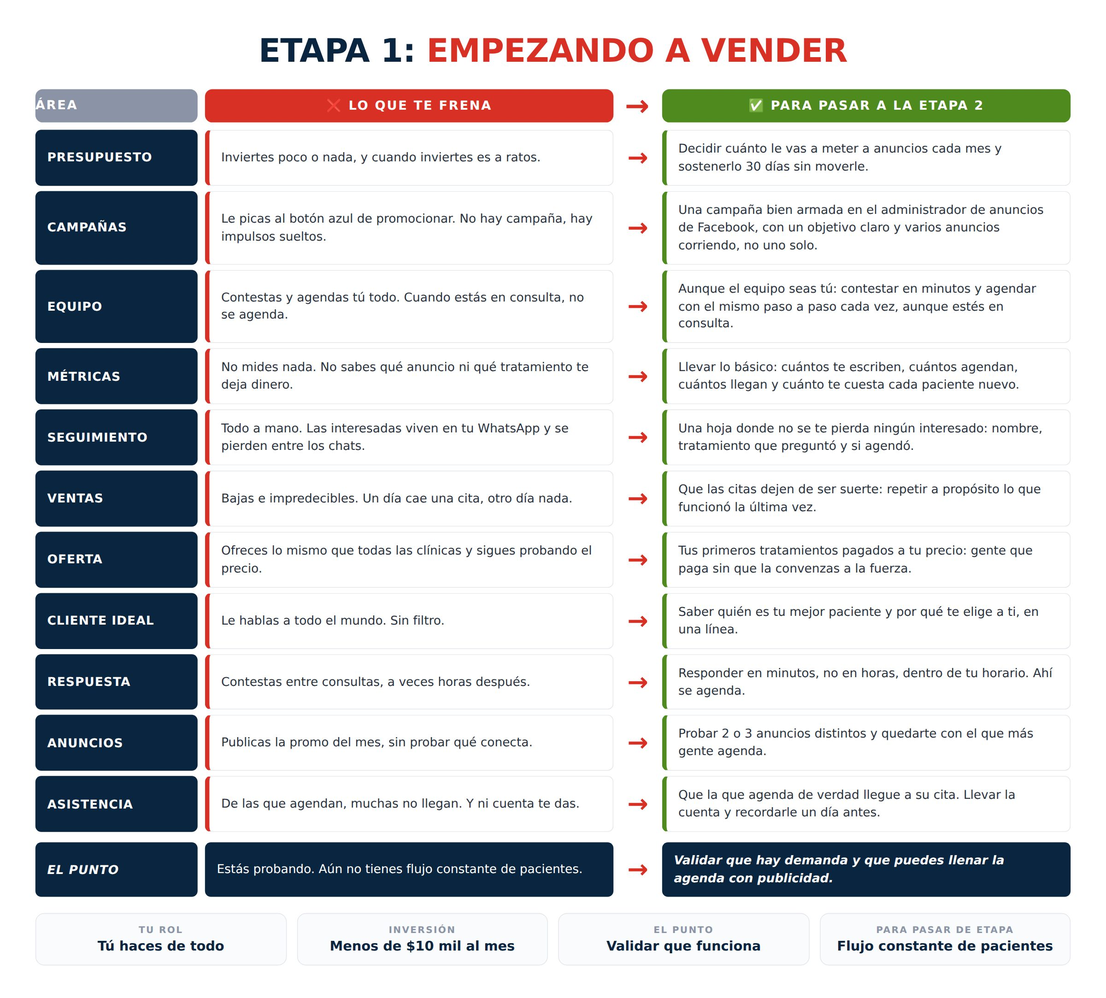
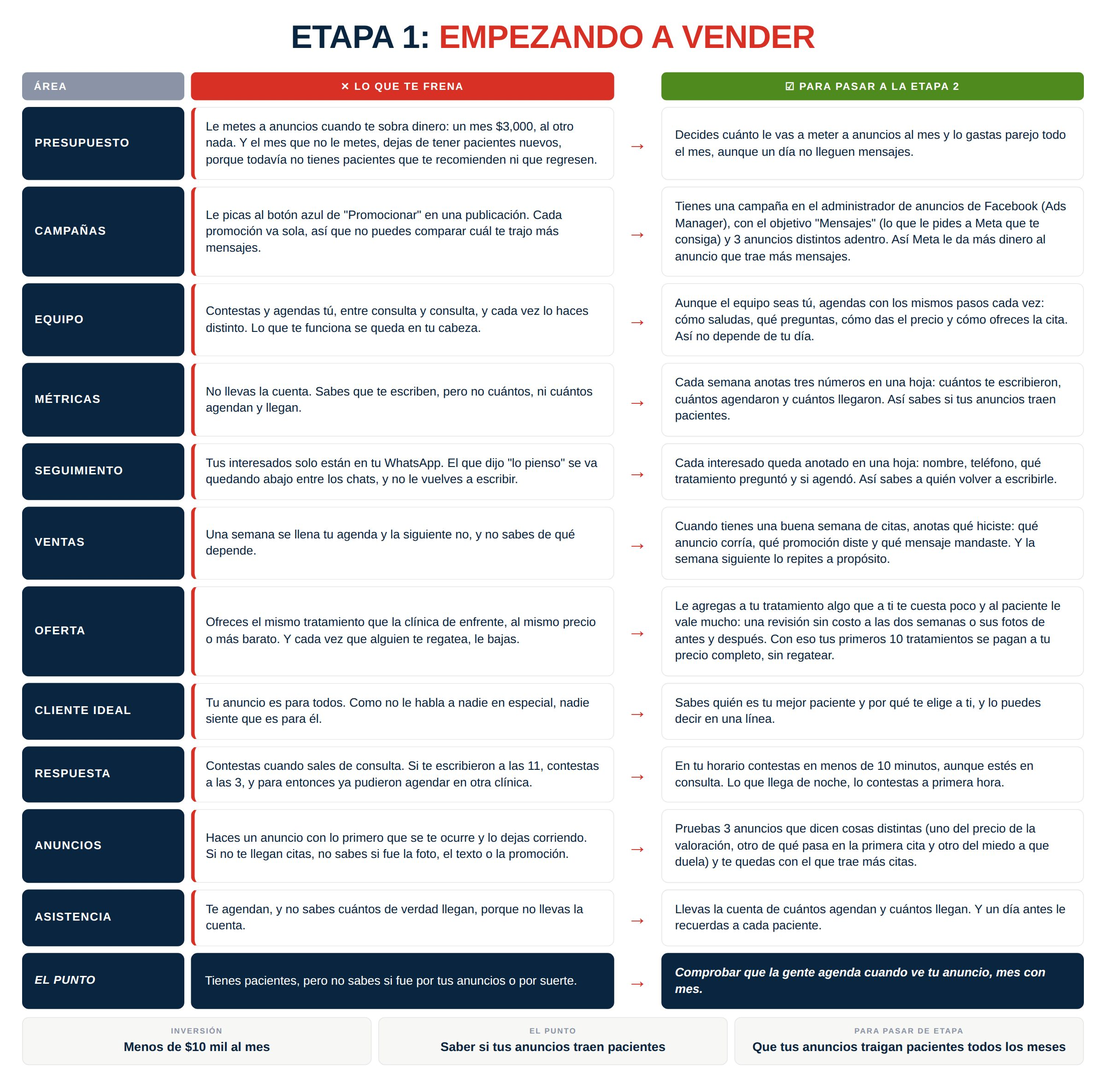
Build 8.0: E1 y E2 reescritas + clinica + E3 Equipo + mockup

Changed region(s): [[0.0, 0.0, 1.0, 0.9903]]

diff --git a/index.html b/index.html
@@ -2104,30 +2104,30 @@ function laLectura(real,tg,tr){
 }
 /* ---- Checklist Etapa 1 (mapa en lista) ---- */
 const CHK1=[
- {area:'Presupuesto',text:'Decidir cuánto le vas a meter a anuncios cada mes y sostenerlo 30 días sin moverle.',ej:'Decides $3 mil al mes ($100 al día) y no le subes ni le bajas en 30 días, aunque un día no lleguen mensajes. Así sabes si funciona o no.',cl:{ej:'Decides $3 mil al mes ($100 al día) y no le subes ni le bajas en 30 días, aunque un día no lleguen mensajes. Así sabes si funciona o no.'}},
- {area:'Campañas',text:'Una campaña bien armada en el administrador de anuncios de Facebook, con un objetivo claro y varios anuncios corriendo, no uno solo.',ej:'En vez de "Promocionar publicación" con un solo anuncio: una campaña con objetivo "Mensajes", 3 anuncios distintos adentro y un presupuesto diario fijo.',cl:{ej:'En vez de "Promocionar publicación" con un solo anuncio: una campaña con objetivo "Mensajes", 3 anuncios distintos adentro (uno por tratamiento) y un presupuesto diario fijo.'}},
- {area:'Equipo',text:'Aunque el equipo seas tú: contestar en minutos y vender con el mismo paso a paso cada vez, para que no dependa de tu día.',ej:'Cada vez que alguien escribe: contestas antes de 10 minutos, saludo, una pregunta para saber qué necesita, precio, y ofrecer cerrar. Siempre igual, aunque estés cansado.',cl:{text:'Aunque el equipo seas tú: contestar en minutos y agendar con el mismo paso a paso cada vez, aunque estés en consulta.',ej:'Cada vez que alguien escribe: contestas antes de 10 minutos, saludo, una pregunta para saber qué le interesa, precio de la valoración o del tratamiento, y ofrecer día y hora. Siempre igual, aunque estés con un paciente.'}},
- {area:'Métricas',text:'Llevar lo básico: cuántos te escriben, cuántos compran y cuánto te cuesta cada venta.',ej:'Una hoja con tres columnas: cuántos te escribieron esta semana, cuántos compraron y cuánto gastaste en anuncios. Divides y ya sabes lo que te cuesta cada venta.',cl:{text:'Llevar lo básico: cuántos te escriben, cuántos agendan, cuántos llegan y cuánto te cuesta cada paciente nuevo.',ej:'Una hoja con cuatro columnas: cuántos te escribieron esta semana, cuántos agendaron, cuántos llegaron y cuánto gastaste en anuncios. Divides y ya sabes lo que te cuesta cada paciente nuevo.'}},
- {area:'Seguimiento',text:'Un lugar simple donde no se te pierda ningún interesado, aunque sea una hoja.',ej:'Una hoja de Excel con nombre, teléfono, qué preguntó y si compró. Se llena cada noche en 5 minutos.',cl:{text:'Una hoja donde no se te pierda ningún interesado: nombre, tratamiento que preguntó y si agendó.',ej:'Una hoja de Google con nombre, teléfono, qué tratamiento preguntó y si ya agendó. Se llena cada noche en 5 minutos.'}},
- {area:'Ventas',text:'Que la venta deje de ser suerte: repetir a propósito lo que funcionó la última vez.',ej:'La semana que más vendiste, ¿qué hiciste distinto? ¿Qué anuncio, qué precio, qué mensaje? Eso se repite a propósito la siguiente.',cl:{text:'Que las citas dejen de ser suerte: repetir a propósito lo que funcionó la última vez.',ej:'La semana que más agendaste, ¿qué hiciste distinto? ¿Qué anuncio, qué promoción, qué mensaje? Eso se repite a propósito la siguiente.'}},
- {area:'Oferta',text:'Tus primeras ventas reales: gente que paga tu precio sin que la convenzas a la fuerza.',ej:'Diez personas que pagaron tus $800 por el paquete sin pedir descuento. Si todas piden rebaja, la oferta todavía no está.',cl:{text:'Tus primeros tratamientos pagados a tu precio: gente que paga sin que la convenzas a la fuerza.',ej:'Diez pacientes que pagaron tu valoración o tu tratamiento de $1,500 sin pedir descuento. Si todas piden rebaja, la oferta todavía no está.'}},
- {area:'Cliente ideal',text:'Saber quién es tu mejor cliente y por qué te compra a ti, en una línea.',ej:'Mujer de 30 a 45, de tu zona, que ya probó otras cosas y no le funcionaron. Te compra porque le dices la verdad de qué sí sirve.',cl:{text:'Saber quién es tu mejor paciente y por qué te elige a ti, en una línea.',ej:'Mujer de 35 a 50, de tu zona, que ya gastó en cremas y en un tratamiento barato en otro lado y sigue igual. Te elige porque le dices cuántas sesiones necesita de verdad y cuánto le va a costar todo, sin sorpresas.'}},
- {area:'Respuesta',text:'Responder en minutos, no en horas, dentro de tu horario. Ahí se cierra.',ej:'Si escribe a las 11 de la mañana, le contestas antes de las 11:10. Si escribe a las 10 de la noche, le contestas a primera hora.',cl:{text:'Responder en minutos, no en horas, dentro de tu horario. Ahí se agenda.',ej:'Si escribe a las 11 de la mañana, le contestas antes de las 11:10, aunque estés en consulta (por eso el paso a paso lo puede seguir tu recepción). Si escribe a las 10 de la noche, a primera hora.'}},
- {area:'Anuncios',text:'Probar 2 o 3 anuncios distintos y quedarte con el que más gente responde.',ej:'Un anuncio hablando del precio, otro del resultado y otro del miedo de que salga mal. A la semana ves cuál trajo más mensajes.',cl:{text:'Probar 2 o 3 anuncios distintos y quedarte con el que más gente agenda.',ej:'Un anuncio hablando del precio de la valoración, otro de qué pasa en la primera cita y otro del miedo a que duela. A la semana ves cuál trajo más citas.'}},
- {area:'Asistencia',text:'Que el que dice "sí" de verdad llegue: a la cita o a pagar el pedido. Llevar la cuenta y recordarle antes.',ej:'De 10 que dicen "sí, voy" o "sí, lo quiero", apuntas cuántos llegaron a la cita o a pagar. Y antes les escribes: "Te espero mañana a las 4, ¿confirmas?" o "Te aparto tu pedido hasta hoy a las 6, ¿lo cierro?"',na:true,cl:{text:'Que la que agenda de verdad llegue a su cita. Llevar la cuenta y recordarle un día antes.',ej:'De 10 que agendan, apuntas cuántas llegaron. Y un día antes les escribes: "Te espero mañana a las 4, ¿confirmas?"'}}
+ {"area": "Presupuesto", "text": "Decides cuánto le vas a meter a anuncios al mes y lo gastas parejo todo el mes, aunque un día no lleguen mensajes.", "ej": "Decides $3 mil al mes: $100 al día. Un martes no te llega ningún mensaje, y no le bajas. Al final del mes cuentas cuántos compraron.", "cl": {"ej": "Decides $3 mil al mes: $100 al día. Un martes no te llega ningún mensaje, y no le bajas. Al final del mes cuentas cuántos pacientes llegaron."}},
+ {"area": "Campañas", "text": "Tienes una campaña en el administrador de anuncios de Facebook (Ads Manager), con el objetivo \"Mensajes\" (lo que le pides a Meta que te consiga) y 3 anuncios distintos adentro. Así Meta le da más dinero al anuncio que trae más mensajes.", "ej": "En vez de \"Promocionar\" una publicación: una campaña con objetivo \"Mensajes\", 3 anuncios distintos adentro y un presupuesto diario fijo.", "cl": {"ej": "En vez de \"Promocionar\" una publicación: una campaña con objetivo \"Mensajes\", 3 anuncios distintos adentro y un presupuesto diario fijo."}},
+ {"area": "Equipo", "text": "Aunque el equipo seas tú, vendes con los mismos pasos cada vez: cómo saludas, qué preguntas, cómo das el precio y cómo cierras. Así no depende de tu día.", "ej": "Cada vez que alguien te escribe, sigues los mismos pasos:\n1. Saludas\n2. Le preguntas qué necesita\n3. Le das el precio\n4. Le ofreces apartar\nSiempre igual, aunque estés cansado.", "cl": {"text": "Aunque el equipo seas tú, agendas con los mismos pasos cada vez: cómo saludas, qué preguntas, cómo das el precio y cómo ofreces la cita. Así no depende de tu día.", "ej": "Cada vez que alguien te escribe, sigues los mismos pasos:\n1. Saludas\n2. Le preguntas qué tratamiento le interesa\n3. Le das el precio de la valoración o del tratamiento\n4. Le ofreces día y hora\nSiempre igual, aunque estés con un paciente."}},
+ {"area": "Métricas", "text": "Cada semana anotas dos números en una hoja: cuántos te escribieron y cuántos compraron. Así sabes si tus anuncios traen gente que compra.", "ej": "Una hoja con dos columnas. Esta semana: 30 te escribieron y 3 compraron.", "cl": {"text": "Cada semana anotas tres números en una hoja: cuántos te escribieron, cuántos agendaron y cuántos llegaron. Así sabes si tus anuncios traen pacientes.", "ej": "Una hoja con tres columnas. Esta semana: 30 te escribieron, 8 agendaron y 5 llegaron."}},
+ {"area": "Seguimiento", "text": "Cada interesado queda anotado en una hoja: nombre, teléfono, qué preguntó y si compró. Así sabes a quién volver a escribirle.", "ej": "La hoja la llenas cada noche en 5 minutos. Al día siguiente le escribes al que dijo \"lo pienso\".", "cl": {"text": "Cada interesado queda anotado en una hoja: nombre, teléfono, qué tratamiento preguntó y si agendó. Así sabes a quién volver a escribirle.", "ej": "La hoja la llenas cada noche en 5 minutos. Al día siguiente le escribes al que dijo \"lo pienso\"."}},
+ {"area": "Ventas", "text": "Cuando tienes una buena semana, anotas qué hiciste: qué anuncio corría, qué precio diste y qué mensaje mandaste. Y la semana siguiente lo repites a propósito.", "ej": "La semana que más vendiste corría el anuncio del precio, diste el paquete de $800 y contestabas con el mismo mensaje de bienvenida. La semana siguiente repites esas tres cosas.", "cl": {"text": "Cuando tienes una buena semana de citas, anotas qué hiciste: qué anuncio corría, qué promoción diste y qué mensaje mandaste. Y la semana siguiente lo repites a propósito.", "ej": "La semana que más agendaste corría el anuncio del miedo a que duela, ofreciste la valoración a $300 y contestabas con el mismo mensaje de bienvenida. La semana siguiente repites esas tres cosas."}},
+ {"area": "Oferta", "text": "Le agregas a tu servicio algo que a ti te cuesta poco y al cliente le vale mucho: una garantía, una entrega más rápida o un seguimiento. Con eso tus primeras 10 ventas pagan tu precio completo, sin regatear.", "ej": "Tu paquete cuesta $800. Le agregas una garantía: si no queda como lo pidió, se lo rehaces sin costo. Las siguientes 10 personas pagan los $800 sin pedir descuento.", "cl": {"text": "Le agregas a tu tratamiento algo que a ti te cuesta poco y al paciente le vale mucho: una revisión sin costo a las dos semanas o sus fotos de antes y después. Con eso tus primeros 10 tratamientos se pagan a tu precio completo, sin regatear.", "ej": "Tu tratamiento cuesta $1,500. Le agregas una revisión sin costo a las dos semanas. Los siguientes 10 pacientes pagan los $1,500 sin pedir descuento."}},
+ {"area": "Cliente ideal", "text": "Sabes quién es tu mejor cliente y por qué te compra a ti, y lo puedes decir en una línea.", "ej": "Mujer de 30 a 45, de tu zona, que ya probó otras marcas y no le funcionaron. Te compra porque le dices la verdad de qué sí sirve.", "cl": {"text": "Sabes quién es tu mejor paciente y por qué te elige a ti, y lo puedes decir en una línea.", "ej": "Mujer de 35 a 50, de tu zona, que ya gastó en cremas y en un tratamiento barato en otro lado y sigue igual. Te elige porque le dices cuántas sesiones necesita de verdad y cuánto le va a costar todo, sin sorpresas."}},
+ {"area": "Respuesta", "text": "En tu horario contestas en menos de 10 minutos. Lo que llega de noche, lo contestas a primera hora.", "ej": "Si te escriben a las 11 de la mañana, contestas antes de las 11:10. Si te escriben a las 10 de la noche, contestas a primera hora.", "cl": {"text": "En tu horario contestas en menos de 10 minutos, aunque estés en consulta. Lo que llega de noche, lo contestas a primera hora.", "ej": "Si te escriben a las 11 de la mañana, contestas antes de las 11:10, aunque estés en consulta (por eso tus pasos los puede seguir tu recepción). Si te escriben a las 10 de la noche, a primera hora."}},
+ {"area": "Anuncios", "text": "Pruebas 3 anuncios que dicen cosas distintas (uno del precio, otro del resultado y otro del miedo a que salga mal) y te quedas con el que trae más mensajes.", "ej": "Los 3 anuncios gastan lo mismo. El del precio trae 12 mensajes, el del resultado 25 y el del miedo 8. Te quedas con el del resultado.", "cl": {"text": "Pruebas 3 anuncios que dicen cosas distintas (uno del precio de la valoración, otro de qué pasa en la primera cita y otro del miedo a que duela) y te quedas con el que trae más citas.", "ej": "Los 3 anuncios gastan lo mismo. El del precio trae 4 citas, el de la primera cita 9 y el del miedo 3. Te quedas con el de la primera cita."}},
+ {"area": "Asistencia", "text": "Llevas la cuenta de cuántos te dicen \"sí\" y cuántos llegan o pagan. Y un día antes le recuerdas a cada uno.", "ej": "De 10 que te dicen \"sí\", apuntas cuántos llegaron a la cita o pagaron. Y un día antes les escribes: \"Te espero mañana a las 4, ¿confirmas?\" o \"Te aparto tu pedido hasta mañana a las 6, ¿lo cierro?\"", "na": true, "cl": {"text": "Llevas la cuenta de cuántos agendan y cuántos llegan. Y un día antes le recuerdas a cada paciente.", "ej": "De 10 que agendan, apuntas cuántos llegaron. Y un día antes les escribes: \"Te espero mañana a las 4, ¿confirmas?\""}},
 ];
 const CHK2=[
- {area:'Presupuesto',text:'Fijar cuánto vas a gastar en el mes, sacado de cuánto quieres vender y de lo que te cuesta cada venta. No moverle a mitad de mes: le cambias al cierre, con tus números en la mano.',ej:'Quieres 30 ventas y cada venta te cuesta $500 en anuncios: tu presupuesto es $15 mil. Aunque la segunda semana salga floja, no le bajas. El 30 revisas cuántas ventas trajo y decides octubre.',cl:{text:'Fijar cuánto vas a gastar en el mes, sacado de cuántas citas quieres y de lo que te cuesta cada paciente nuevo. No moverle a mitad de mes: le cambias al cierre, con tus números en la mano.',ej:'Quieres 30 pacientes nuevos y cada uno te cuesta $500 en anuncios: tu presupuesto es $15 mil. Aunque la segunda semana salga floja, no le bajas. El 30 revisas cuántos llegaron y decides octubre.'}},
- {area:'Campañas',text:'Traer pocos anuncios prendidos, para que a cada uno le toque dinero suficiente. Si repartes tu presupuesto entre muchos, a ninguno le alcanza para saber si sirve. Apagas uno cuando ya gastó el doble de lo que te cuesta una venta y no trajo ninguna.',ej:'Gastas $500 al día y traes 10 anuncios: a cada uno le tocan $50. Con eso no vas a saber cuál sirve. Déjalos en 3 y a cada uno le tocan $166 al día. En dos semanas ya sabes cuál se queda.',cl:{text:'Traer pocos anuncios prendidos, para que a cada uno le toque dinero suficiente. Si repartes tu presupuesto entre muchos, a ninguno le alcanza para saber si sirve. Apagas uno cuando ya gastó el doble de lo que te cuesta un paciente nuevo y no trajo ninguno.',ej:'Gastas $500 al día y traes 10 anuncios: a cada uno le tocan $50. Con eso no vas a saber cuál sirve. Déjalos en 3 y a cada uno le tocan $166 al día. En dos semanas ya sabes cuál se queda.'}},
- {area:'Equipo',text:'Tener por escrito cómo se contesta y cómo se vende, para que quien te ayude lo siga desde su primer día.',ej:'Una hoja con 5 pasos: saludo, una pregunta para saber qué necesita, precio, ofrecer apartar y qué decir si contesta "lo pienso". Quien entre a contestar la lee y la sigue.',cl:{text:'Tener por escrito cómo se contesta y cómo se agenda, para que tu recepción lo siga desde su primer día.',ej:'Una hoja con 5 pasos: saludo, una pregunta para saber qué le interesa, precio de la valoración o del tratamiento, ofrecer día y hora, y qué decir si contesta "lo pienso". Quien conteste la lee y la sigue.'}},
- {area:'Métricas',text:'Contar cada semana tres cosas: mensajes, citas o pedidos apartados, y cuántos pagaron.',ej:'Cada viernes anotas: 40 mensajes, 12 apartaron, 7 pagaron. Con eso ves en qué paso se te van.',cl:{text:'Contar cada semana tres cosas: mensajes, citas agendadas y cuántas llegaron y pagaron.',ej:'Cada viernes anotas: 40 mensajes, 12 agendaron, 7 llegaron y pagaron. Con eso ves en qué paso se te van.'}},
- {area:'Seguimiento',text:'Una hoja de Google (Google Sheets) donde veas cuántos están cotizados, cuántos por decidir, cuántos apartaron y cuántos pagaron. Así sabes a quién darle seguimiento hoy.',ej:'Una fila por persona: nombre, qué preguntó y su estatus. Hoy: 9 cotizados, 5 por decidir, 3 apartados, 2 pagados. A los 5 por decidir les escribes hoy.',cl:{text:'Una hoja de Google (Google Sheets) donde veas cuántas están cotizadas, cuántas por decidir, cuántas agendadas y cuántas ya pagaron. Así sabes a quién darle seguimiento hoy.',ej:'Una fila por persona: nombre, tratamiento que preguntó y su estatus. Hoy: 9 cotizadas, 5 por decidir, 3 agendadas, 2 pagadas. A las 5 por decidir les escribes hoy.'}},
- {area:'Ventas',text:'Un objetivo de venta al mes en tres números: el mínimo, el ideal y el espectacular. Lograr 3 meses seguidos arriba del mínimo.',ej:'Mínimo $30 mil, ideal $45 mil, espectacular $60 mil. Si tres meses seguidos pasas de $30 mil, ya no es suerte: es un negocio que se sostiene.',cl:{text:'Un objetivo de venta al mes en tres números: el mínimo, el ideal y el espectacular. Lograr 3 meses seguidos arriba del mínimo.',ej:'Mínimo $30 mil, ideal $45 mil, espectacular $60 mil. Si tres meses seguidos pasas de $30 mil, ya no es suerte: es una clínica que se sostiene.'}},
- {area:'Oferta',text:'Saber cuál de tus productos o servicios cierra mejor y empujar ese, no todos al mismo tiempo.',ej:'Vendes tres paquetes. Cuentas cuál cierra más seguido sin regateo y ese es el que va en tus anuncios este mes.',cl:{text:'Saber cuál de tus tratamientos cierra mejor y empujar ese, no todos al mismo tiempo.',ej:'Ofreces tres tratamientos. Cuentas cuál agenda más seguido sin regateo y ese es el que va en tus anuncios este mes.'}},
- {area:'Cliente ideal',text:'Que tus anuncios le hablen a tu cliente ideal, con sus palabras.',ej:'Ya sabes que te compra la mujer de 30 a 45 que ya probó otras cosas. Tu anuncio dice eso, no "para todos".',cl:{text:'Que tus anuncios le hablen a tu paciente ideal, con sus palabras.',ej:'Ya sabes que te elige la mujer de 35 a 50 que ya gastó en cremas y sigue igual. Tu anuncio le habla a ella, no "a todas".'}},
- {area:'Respuesta',text:'Contestar en menos de 10 minutos en tu horario, y medirlo cada semana.',ej:'Cada semana revisas 10 chats: a qué hora llegaron y a qué hora contestaste. Si más de 2 pasaron de 10 minutos, se arregla esa semana.',cl:{ej:'Cada semana revisas 10 chats: a qué hora llegaron y a qué hora contestaste. Si más de 2 pasaron de 10 minutos, aunque estuvieras en consulta, se arregla esa semana.'}},
- {area:'Anuncios',text:'Un anuncio nuevo cada semana. Apagas el peor y anotas cuál ganó: el que trajo más apartados o pagos, no el de mensajes más baratos.',ej:'Lunes subes un anuncio nuevo. Viernes ves cuál trajo más apartados: ese ganó, aunque sus mensajes hayan salido más caros. El peor se apaga.',cl:{text:'Un anuncio nuevo cada semana. Apagas el peor y anotas cuál ganó: el que trajo más citas, no el de mensajes más baratos.',ej:'Lunes subes un anuncio nuevo. Viernes ves cuál trajo más citas: ese ganó, aunque sus mensajes hayan salido más caros. El peor se apaga.'}},
- {area:'Asistencia',text:'Recordatorio un día antes y confirmación el mismo día, a todos los que apartan.',ej:'Ayer: "Te espero mañana a las 4, ¿confirmas?". Hoy en la mañana: "Nos vemos hoy a las 4". A todos, no solo a los que te acuerdas.',na:true,cl:{text:'Recordatorio un día antes y confirmación el mismo día, a todas las que agendan.',ej:'Ayer: "Te espero mañana a las 4, ¿confirmas?". Hoy en la mañana: "Nos vemos hoy a las 4". A todas, no solo a las que te acuerdas.'}}
+ {"area": "Presupuesto", "text": "Al cierre de cada mes decides el presupuesto del siguiente con tu costo por venta (ver Métricas): si se mantuvo igual o bajó, le subes; si subió, lo dejas igual. A mitad de mes no le mueves.", "ej": "En septiembre gastaste $15 mil y cada venta te costó $500, igual que en agosto. Para octubre le subes a $18 mil. Aunque la segunda semana de octubre salga floja, no le bajas.", "cl": {"text": "Al cierre de cada mes decides el presupuesto del siguiente con tu costo por paciente nuevo (ver Métricas): si se mantuvo igual o bajó, le subes; si subió, lo dejas igual. A mitad de mes no le mueves.", "ej": "En septiembre gastaste $15 mil y cada paciente nuevo te costó $500, igual que en agosto. Para octubre le subes a $18 mil. Aunque la segunda semana de octubre salga floja, no le bajas."}},
+ {"area": "Campañas", "text": "Tienes 3 anuncios prendidos, no 10, para que a cada uno le toque dinero suficiente para saber si trae ventas.", "ej": "Gastas $500 al día en 10 anuncios: a cada uno le tocan $50. Si los dejas en 3, a cada uno le tocan $166 al día. Así sabes antes cuál trae ventas.", "cl": {"text": "Tienes 3 anuncios prendidos, no 10, para que a cada uno le toque dinero suficiente para saber si trae pacientes.", "ej": "Gastas $500 al día en 10 anuncios: a cada uno le tocan $50. Si los dejas en 3, a cada uno le tocan $166 al día. Así sabes antes cuál trae pacientes."}},
+ {"area": "Equipo", "text": "Tienes por escrito los pasos para contestar y vender, y quien te ayuda los sigue desde su primer día.", "ej": "Una hoja con 5 pasos: saludo, una pregunta para saber qué necesita, precio, ofrecer apartar y qué decir si contesta \"lo pienso\". Quien entre a contestar la lee y la sigue.", "cl": {"text": "Tienes por escrito los pasos para contestar y agendar, y tu recepción los sigue desde su primer día.", "ej": "Una hoja con 5 pasos: saludo, una pregunta para saber qué tratamiento le interesa, precio de la valoración o del tratamiento, ofrecer día y hora, y qué decir si contesta \"lo pienso\". Quien conteste la lee y la sigue."}},
+ {"area": "Métricas", "text": "Cada semana sacas dos costos: cuánto te cuesta un mensaje (lo que gastaste entre los mensajes) y cuánto te cuesta una venta (lo que gastaste entre las ventas).", "ej": "Esta semana gastaste $3,000, te llegaron 60 mensajes y vendiste 6.\nCada mensaje te costó $50.\nCada venta te costó $500.", "cl": {"text": "Cada semana sacas dos costos: cuánto te cuesta un mensaje (lo que gastaste entre los mensajes) y cuánto te cuesta un paciente nuevo (lo que gastaste entre los pacientes que llegaron y pagaron).", "ej": "Esta semana gastaste $3,000, te llegaron 60 mensajes y llegaron 6 pacientes nuevos.\nCada mensaje te costó $50.\nCada paciente nuevo te costó $500."}},
+ {"area": "Seguimiento", "text": "Tu hoja de Google (Google Sheets) tiene el estatus de cada interesado: cotizado, por decidir, apartado o pagado. Cada mañana le escribes a los que están por decidir.", "ej": "Una fila por persona: nombre, qué preguntó y su estatus. Hoy: 9 cotizados, 5 por decidir, 3 apartados, 2 pagados. A los 5 por decidir les escribes hoy.", "cl": {"text": "Tu hoja de Google (Google Sheets) tiene el estatus de cada interesado: cotizado, por decidir, agendado o pagado. Cada mañana le escribes a los que están por decidir.", "ej": "Una fila por persona: nombre, tratamiento que preguntó y su estatus. Hoy: 9 cotizados, 5 por decidir, 3 agendados, 2 pagados. A los 5 por decidir les escribes hoy."}},
+ {"area": "Ventas", "text": "Tu objetivo de venta del mes tiene tres números: el mínimo, el ideal y el espectacular. Y llevas 3 meses seguidos arriba del mínimo.", "ej": "Mínimo $30 mil, ideal $45 mil, espectacular $60 mil. Si tres meses seguidos pasas de $30 mil, ya no es suerte: es un negocio que se sostiene.", "cl": {"ej": "Mínimo $30 mil, ideal $45 mil, espectacular $60 mil. Si tres meses seguidos pasas de $30 mil, ya no es suerte: es una clínica que se sostiene."}},
+ {"area": "Oferta", "text": "Sabes cuál de tus productos o servicios se vende más sin regateo, y ese es el que va en tus anuncios.", "ej": "Vendes tres paquetes. Cuentas cuál se vende más seguido sin regateo, y ese es el que va en tus anuncios este mes.", "cl": {"text": "Sabes cuál de tus tratamientos se agenda más sin regateo, y ese es el que va en tus anuncios.", "ej": "Ofreces tres tratamientos. Cuentas cuál se agenda más seguido sin regateo, y ese es el que va en tus anuncios este mes."}},
+ {"area": "Cliente ideal", "text": "Tus anuncios le hablan a tu mejor cliente, con las palabras que él usa cuando te escribe.", "ej": "Ya sabes que te compra la mujer de 30 a 45 que ya probó otras marcas. Tu anuncio le habla con lo que ella te escribe: \"ya probé de todo y nada me funcionó\".", "cl": {"text": "Tus anuncios le hablan a tu mejor paciente, con las palabras que usa cuando te escribe.", "ej": "Ya sabes que te elige la mujer de 35 a 50 que ya gastó en cremas y sigue igual. Tu anuncio le habla con lo que ella te escribe: \"ya gasté en cremas y sigo igual\"."}},
+ {"area": "Respuesta", "text": "En tu horario se contesta en menos de 10 minutos, y cada semana revisas 10 chats para comprobarlo.", "ej": "Cada semana revisas 10 chats: a qué hora llegaron y a qué hora se contestaron. Si más de 2 pasaron de 10 minutos, se arregla esa semana.", "cl": {"ej": "Cada semana revisas 10 chats: a qué hora llegaron y a qué hora se contestaron. Si más de 2 pasaron de 10 minutos, aunque fuera por estar en consulta, se arregla esa semana."}},
+ {"area": "Anuncios", "text": "Cada anuncio nuevo cambia una sola cosa de tu anuncio ganador: la foto, el título o el texto. Y anotas cuál ganó: el que trajo más apartados o pagos, no el de mensajes más baratos.", "ej": "Tu anuncio ganador es el del resultado. El nuevo es igual, pero con otra foto. Con el mismo dinero, el de la foto nueva trae 5 apartados y tu anuncio ganador 8. Te quedas con tu anuncio ganador y anotas que la foto nueva no ayudó.", "cl": {"text": "Cada anuncio nuevo cambia una sola cosa de tu anuncio ganador: la foto, el título o el texto. Y anotas cuál ganó: el que trajo más citas, no el de mensajes más baratos.", "ej": "Tu anuncio ganador es el del resultado. El nuevo es igual, pero con otra foto. Con el mismo dinero, el de la foto nueva trae 5 citas y tu anuncio ganador 8. Te quedas con tu anuncio ganador y anotas que la foto nueva no ayudó."}},
+ {"area": "Asistencia", "text": "Todos los que apartan reciben recordatorio un día antes y confirmación el mismo día. A todos, no solo a los que te acuerdas.", "ej": "Ayer: \"Te espero mañana a las 4, ¿confirmas?\". Hoy en la mañana: \"Nos vemos hoy a las 4\".", "na": true, "cl": {"text": "Todos los que agendan reciben recordatorio un día antes y confirmación el mismo día. A todos, no solo a los que te acuerdas.", "ej": "Ayer: \"Te espero mañana a las 4, ¿confirmas?\". Hoy en la mañana: \"Nos vemos hoy a las 4\"."}},
 ];
 const CHK3=[
  {area:"Presupuesto",text:"Tu presupuesto sale de tu meta de ventas: sabes cuántas ventas quieres este mes y cuánto te cuesta cada una, y de esos dos números sale cuánto meterle a anuncios. Cuando le subes, sabes cuántas ventas más esperar y en cuántos días verlas.",ej:"Quieres 60 ventas este mes y cada una te cuesta $1,000 en anuncios: metes $60 mil. Si le subes a $72 mil, esperas 12 ventas más, y las ves en las dos semanas siguientes. Si no llegan, no es el presupuesto: es otra fila de esta tabla.",cl:{text:"Tu presupuesto sale de tu meta de pacientes: sabes cuántos pacientes nuevos quieres este mes y cuánto te cuesta cada uno, y de esos dos números sale cuánto meterle a anuncios. Cuando le subes, sabes cuántos pacientes más esperar y en cuántos días verlos.",ej:"Quieres 60 pacientes nuevos este mes y cada uno te cuesta $1,000 en anuncios: metes $60 mil. Si le subes a $72 mil, esperas 12 pacientes más, y los ves en las dos semanas siguientes. Si no llegan, no es el presupuesto: es otra fila de esta tabla."}},
